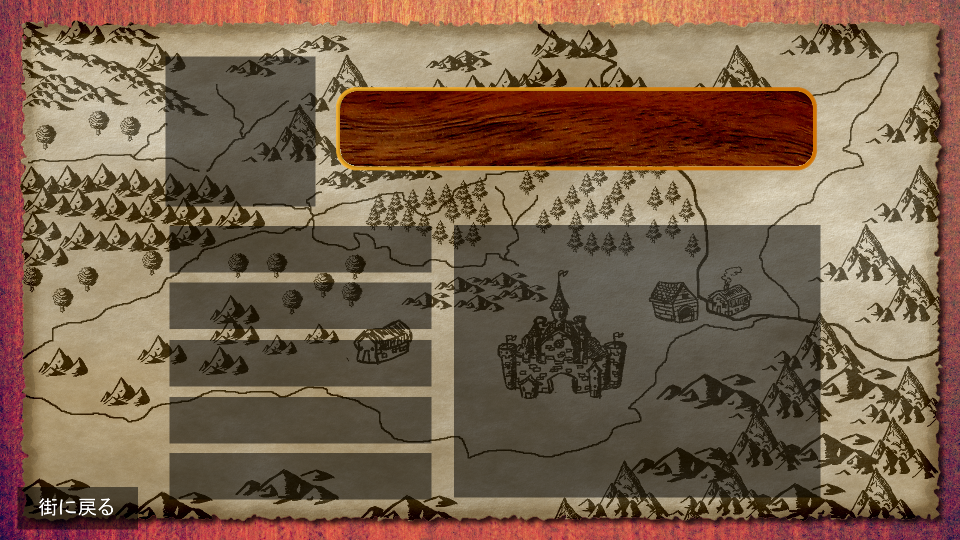
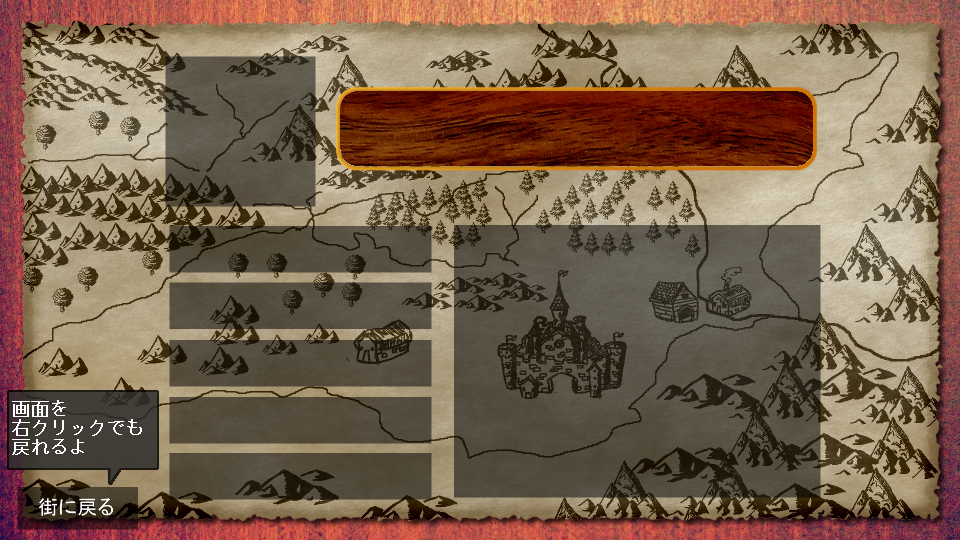
ダンジョン選択画面で右クリックで街に戻れるように機能追加

Changed region(s): [[0.0, 0.7111, 0.1875, 0.8889]]

diff --git a/scripts/Scene_Select_Battale.rb b/scripts/Scene_Select_Battale.rb
@@ -223,6 +223,19 @@ class Scene_Select_Battale < Scene_Base
       end
     end
     
+    # マウスの右クリックで街に戻る
+    if (Input.mouse_push?(M_RBUTTON)) then
+      @cursor.index = 5
+      # 決定音を鳴らす
+      $sounds["decision"].play(1, 0)
+      # フェードアウト後に戦闘シーンへ遷移させる
+      @scene_index = 2
+      # カーソルを点滅させる
+      @cursor.flash = true
+      # 画面を徐々にフェードアウトさせる
+      @fade_effect.setup(0)
+    end
+    
   end
   
   # ループ後処理
